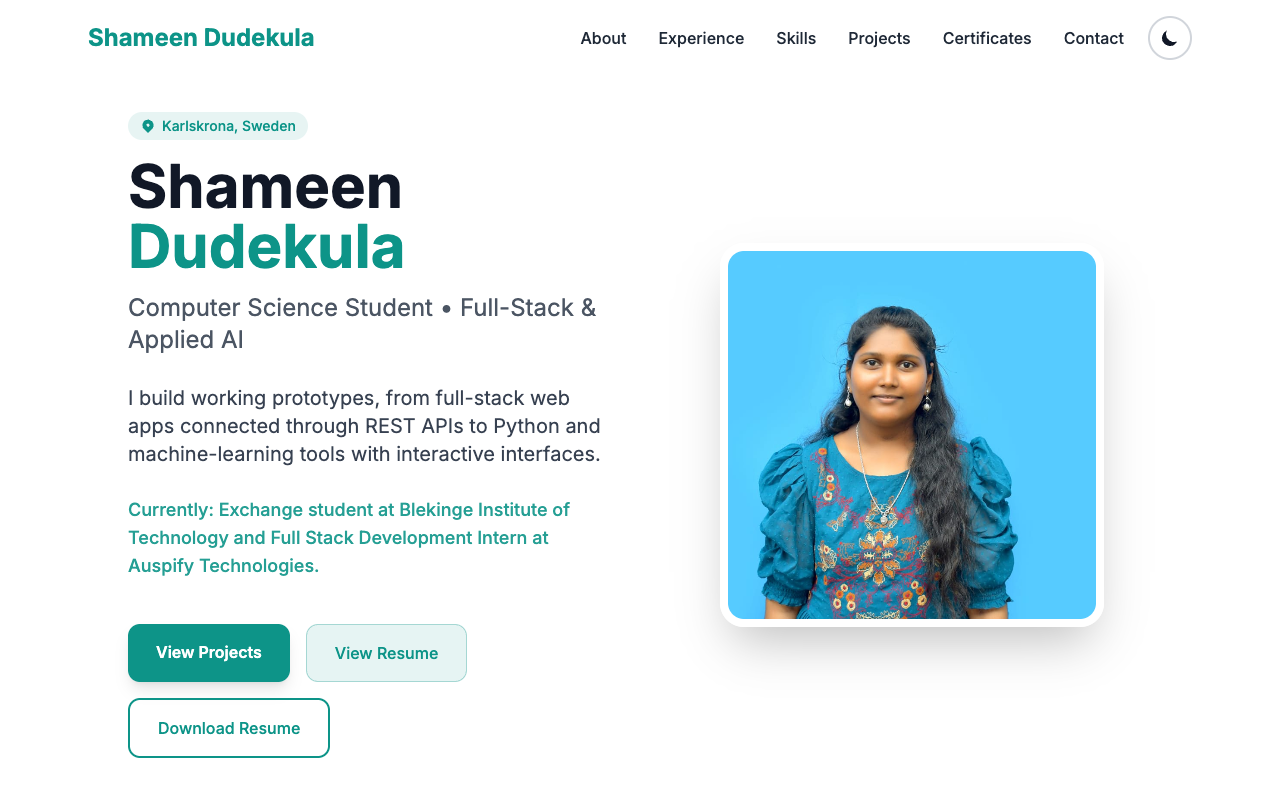
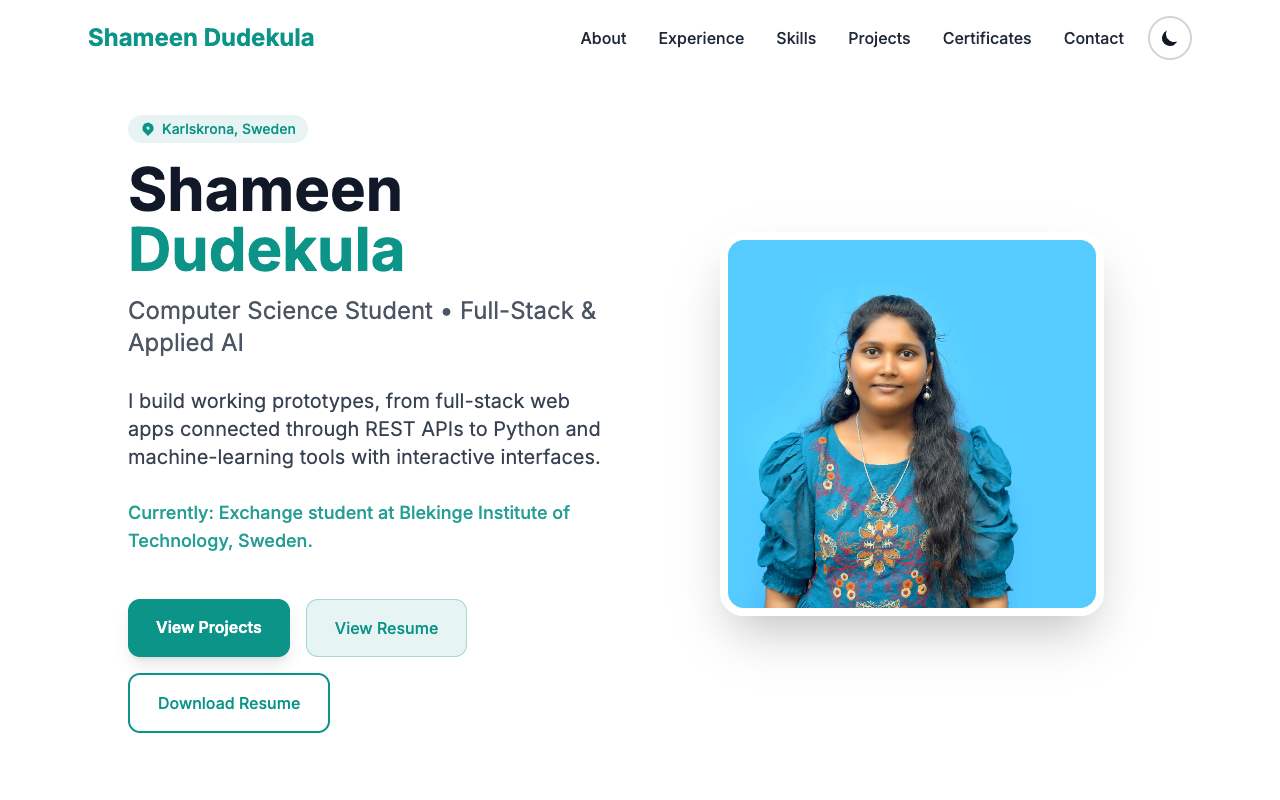
Add full-stack project cards and update hero and journey text

diff --git a/index.html b/index.html
@@ -290,7 +290,8 @@
     <!-- PROJECTS – filterable cards -->
     <section id="projects" class="py-28 px-6" x-data="{ filter: 'all' }">
       <div class="max-w-6xl mx-auto">
-        <h2 class="text-4xl font-bold text-center mb-10">Projects</h2>
+        <h2 class="text-4xl font-bold text-center mb-4">Projects</h2>
+        <p class="text-center text-sm text-gray-500 dark:text-gray-400 mb-10">Live demos run on Render's free tier and may take up to a minute to wake up.</p>
 
         <div class="flex flex-wrap justify-center gap-3 mb-14" role="group" aria-label="Filter projects">
           <button type="button" data-filter="all" @click="filter = 'all'" :aria-pressed="(filter === 'all').toString()" aria-pressed="true"
@@ -308,6 +309,74 @@
         </div>
 
         <div class="grid md:grid-cols-2 gap-10">
+
+          <!-- Student Management System -->
+          <article data-category="web" x-show="filter === 'all' || filter === 'web'"
+                   class="bg-white dark:bg-gray-900 rounded-3xl border border-gray-200 dark:border-gray-700 overflow-hidden hover:shadow-2xl transition reveal">
+            <div class="h-48 bg-gradient-to-br from-primary/20 to-primary/5 flex items-center justify-center px-6">
+              <p class="text-3xl font-bold text-primary text-center">Student Management</p>
+            </div>
+            <div class="p-8 md:p-10 space-y-5">
+              <span class="inline-block px-3 py-1 text-xs font-semibold uppercase tracking-wide rounded-full bg-primary/10 text-primary">Full-Stack Web</span>
+              <h3 class="text-2xl font-bold">Student Management System</h3>
+              <p class="text-gray-700 dark:text-gray-300 leading-relaxed">
+                Full-stack CRUD app to add, view, edit and delete student records, with search, course filter, pagination, a stats dashboard, validation and duplicate checks.
+              </p>
+              <p class="text-sm text-gray-600 dark:text-gray-400">HTML • CSS • JavaScript • Node.js • Express • MongoDB Atlas • Render</p>
+              <div class="flex flex-wrap gap-4 pt-2">
+                <a href="https://github.com/Shameendudekula/student-management" target="_blank" rel="noopener noreferrer"
+                   class="inline-block px-6 py-3 bg-primary text-white font-medium rounded-lg hover:bg-teal-700 transition">View Code</a>
+                <a href="https://student-management-3ihp.onrender.com/" target="_blank" rel="noopener noreferrer"
+                   class="inline-block px-6 py-3 border-2 border-primary text-primary dark:text-white font-medium rounded-lg hover:bg-primary hover:text-white transition">Live Demo</a>
+              </div>
+            </div>
+          </article>
+
+          <!-- Expense Tracker -->
+          <article data-category="web" x-show="filter === 'all' || filter === 'web'"
+                   class="bg-white dark:bg-gray-900 rounded-3xl border border-gray-200 dark:border-gray-700 overflow-hidden hover:shadow-2xl transition reveal">
+            <div class="h-48 bg-gradient-to-br from-primary/20 to-primary/5 flex items-center justify-center px-6">
+              <p class="text-3xl font-bold text-primary text-center">Expense Tracker</p>
+            </div>
+            <div class="p-8 md:p-10 space-y-5">
+              <span class="inline-block px-3 py-1 text-xs font-semibold uppercase tracking-wide rounded-full bg-primary/10 text-primary">Full-Stack Web</span>
+              <h3 class="text-2xl font-bold">Expense Tracker</h3>
+              <p class="text-gray-700 dark:text-gray-300 leading-relaxed">
+                Personal finance app with JWT login, income/expense CRUD, filters, monthly reports built with MongoDB aggregation, Chart.js charts, CSV export and multi-currency support (SEK, INR, USD).
+              </p>
+              <p class="text-sm text-gray-600 dark:text-gray-400">HTML • CSS • JavaScript • Chart.js • Node.js • Express • MongoDB • JWT • Render</p>
+              <p class="text-xs text-gray-500 dark:text-gray-400">Demo login: demo@example.com / demo1234</p>
+              <div class="flex flex-wrap gap-4 pt-2">
+                <a href="https://github.com/Shameendudekula/expense-tracker" target="_blank" rel="noopener noreferrer"
+                   class="inline-block px-6 py-3 bg-primary text-white font-medium rounded-lg hover:bg-teal-700 transition">View Code</a>
+                <a href="https://expense-tracker-e0ck.onrender.com" target="_blank" rel="noopener noreferrer"
+                   class="inline-block px-6 py-3 border-2 border-primary text-primary dark:text-white font-medium rounded-lg hover:bg-primary hover:text-white transition">Live Demo</a>
+              </div>
+            </div>
+          </article>
+
+          <!-- Mini Store – E-Commerce -->
+          <article data-category="web" x-show="filter === 'all' || filter === 'web'"
+                   class="bg-white dark:bg-gray-900 rounded-3xl border border-gray-200 dark:border-gray-700 overflow-hidden hover:shadow-2xl transition reveal">
+            <div class="h-48 bg-gradient-to-br from-primary/20 to-primary/5 flex items-center justify-center px-6">
+              <p class="text-3xl font-bold text-primary text-center">Mini Store</p>
+            </div>
+            <div class="p-8 md:p-10 space-y-5">
+              <span class="inline-block px-3 py-1 text-xs font-semibold uppercase tracking-wide rounded-full bg-primary/10 text-primary">Full-Stack Web</span>
+              <h3 class="text-2xl font-bold">Mini Store – E-Commerce Website</h3>
+              <p class="text-gray-700 dark:text-gray-300 leading-relaxed">
+                Online store with product search, filters and sorting; guest cart merged into the account at login; checkout with atomic stock reservation; order history; and a role-protected admin dashboard for products and orders.
+              </p>
+              <p class="text-sm text-gray-600 dark:text-gray-400">HTML • CSS • JavaScript • Node.js • Express • MongoDB • JWT • Render</p>
+              <p class="text-xs text-gray-500 dark:text-gray-400">Demo: demo@example.com / demo1234 · Admin: admin@example.com / admin1234</p>
+              <div class="flex flex-wrap gap-4 pt-2">
+                <a href="https://github.com/Shameendudekula/ecommerce-store" target="_blank" rel="noopener noreferrer"
+                   class="inline-block px-6 py-3 bg-primary text-white font-medium rounded-lg hover:bg-teal-700 transition">View Code</a>
+                <a href="https://ecommerce-store-qgr5.onrender.com" target="_blank" rel="noopener noreferrer"
+                   class="inline-block px-6 py-3 border-2 border-primary text-primary dark:text-white font-medium rounded-lg hover:bg-primary hover:text-white transition">Live Demo</a>
+              </div>
+            </div>
+          </article>
 
           <!-- WardrobeIQ -->
           <article data-category="web" x-show="filter === 'all' || filter === 'web'"

diff --git a/README.md b/README.md
@@ -20,7 +20,7 @@ Personal portfolio of **Shameen Dudekula**, a Computer Science and Engineering s
 | **About** | Short introduction, Education (BTH, JNTUA) and a 2024–2026 journey timeline |
 | **Experience** | Infosys Springboard Virtual Internship 7.0 |
 | **Skills** | Programming, Web & Backend, Data & Applied AI, Tools |
-| **Projects** | WardrobeIQ, COVID-19 Simulation, AI Real Estate Valuation, XMENTOR (research), Student Learning Hub |
+| **Projects** | Student Management System, Expense Tracker, Mini Store (e-commerce), WardrobeIQ, COVID-19 Simulation, AI Real Estate Valuation, XMENTOR (research), Student Learning Hub |
 | **Certificates & Activities** | Web Development Internship, Ideation 2026 Phase 1 |
 | **Contact** | Contact form plus LinkedIn, GitHub and email |
 
